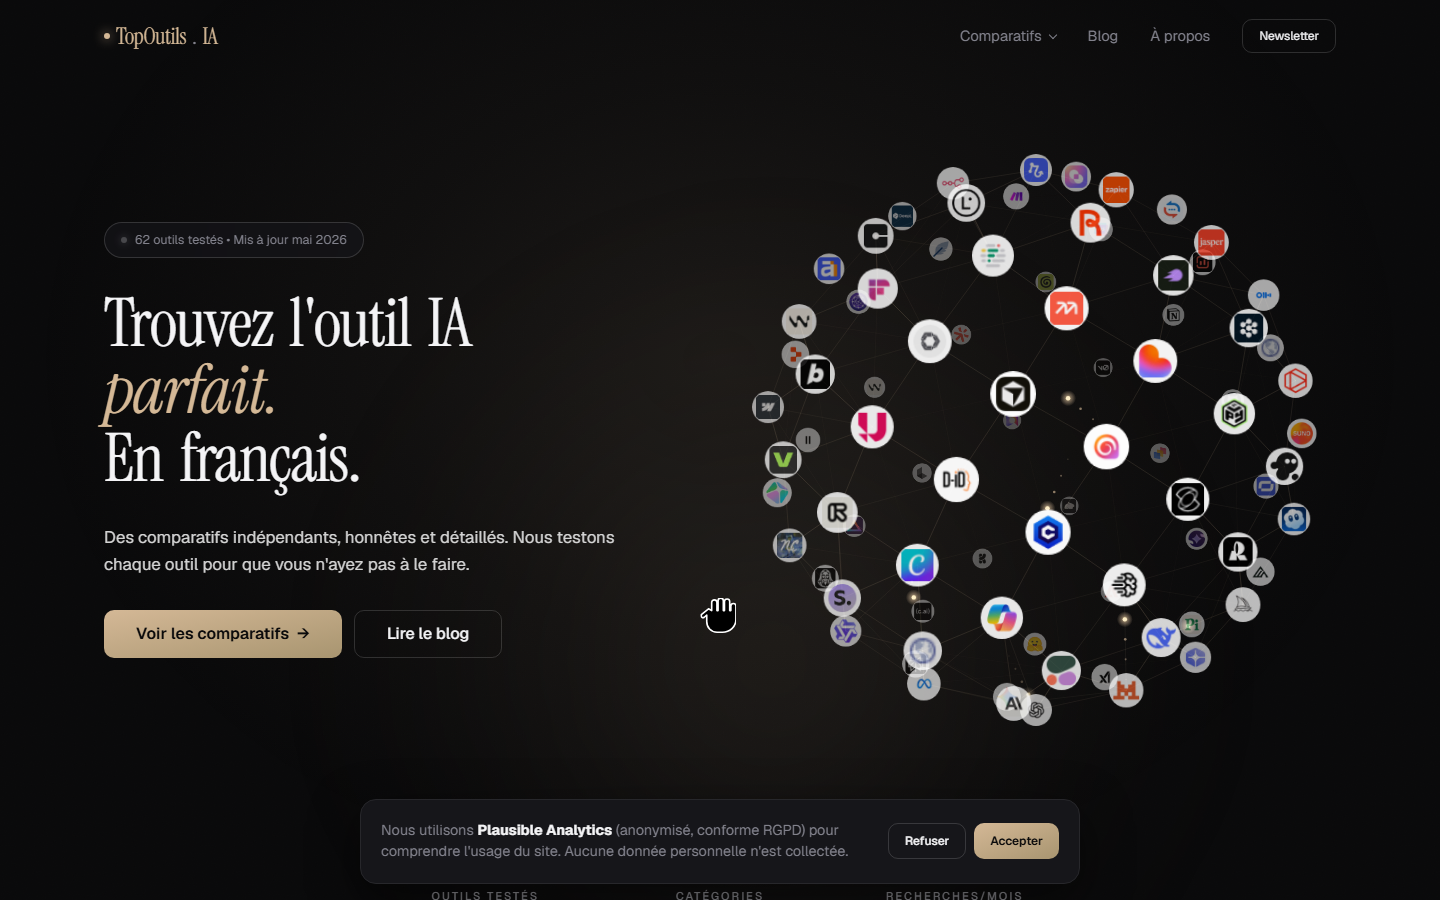
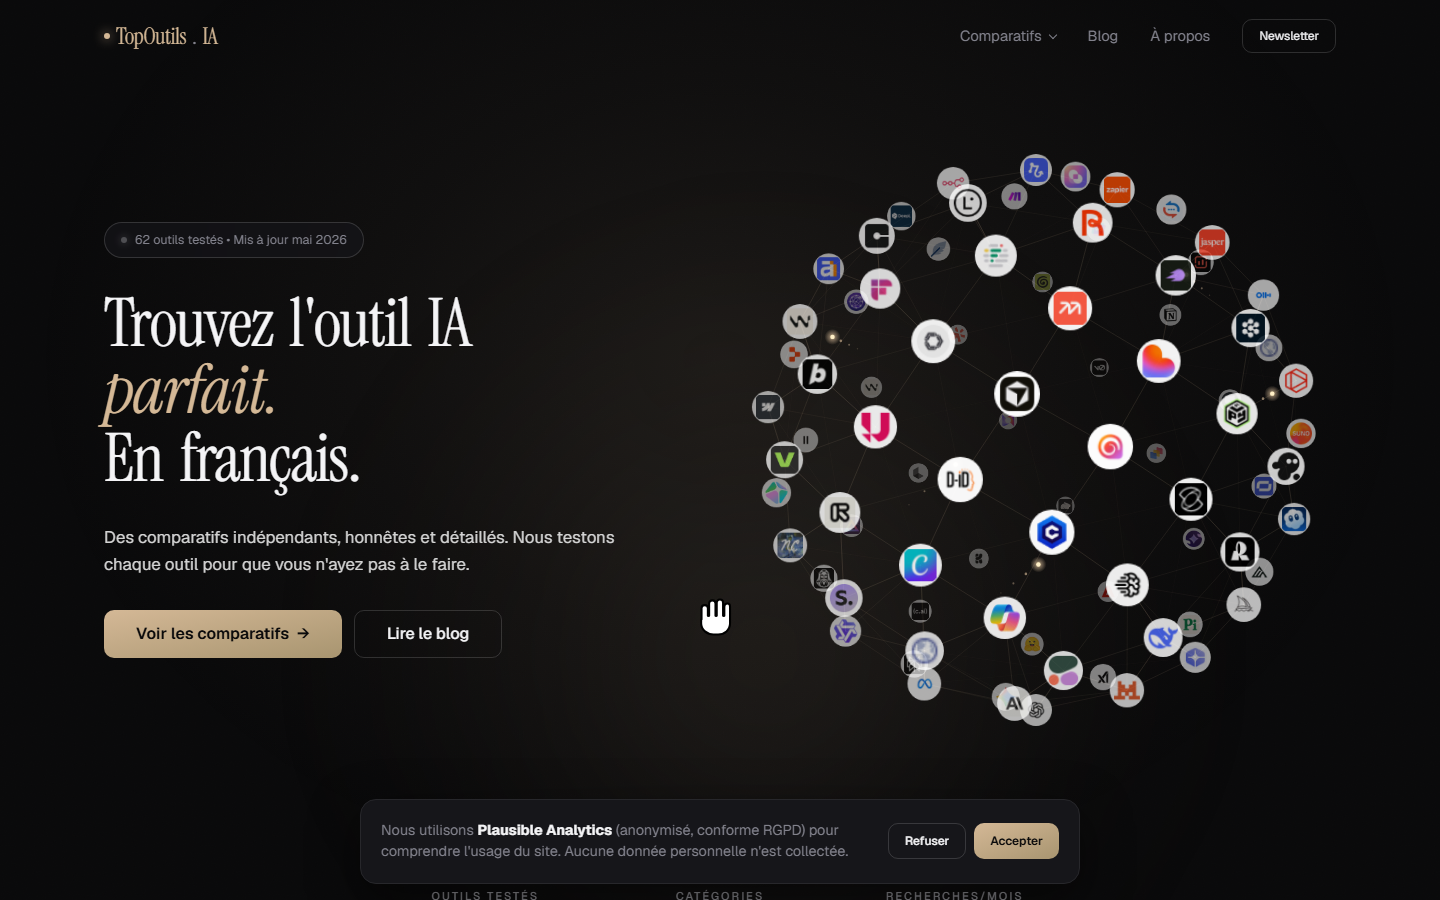
Modif style

diff --git a/screenshots/cursor-preview.html b/screenshots/cursor-preview.html
@@ -1,17 +1,35 @@
 <!DOCTYPE html>
 <html>
 <head><style>
-body { background: #16161A; padding: 60px; font-family: system-ui; color: white; }
-.row { display: flex; gap: 80px; align-items: center; margin-bottom: 40px; }
-.cell { display: flex; flex-direction: column; align-items: center; gap: 16px; }
-img { width: 96px; height: 96px; image-rendering: -webkit-optimize-contrast; background: #2a2a2a; padding: 12px; border-radius: 8px; }
-.label { font-size: 13px; color: #86868B; letter-spacing: 0.1em; text-transform: uppercase; }
+body { background: #16161A; padding: 40px; font-family: system-ui; color: white; margin: 0; }
+.row { display: flex; gap: 60px; align-items: flex-end; }
+.cell { display: flex; flex-direction: column; align-items: center; gap: 12px; }
+img { width: 120px; height: 120px; image-rendering: -webkit-optimize-contrast; background: #2a2a2a; padding: 12px; border-radius: 12px; }
+.actual { width: 48px; height: 48px; background: #2a2a2a; padding: 6px; border-radius: 6px; }
+.label { font-size: 12px; color: #86868B; letter-spacing: 0.1em; text-transform: uppercase; }
+.size { font-size: 11px; color: #555; }
 </style></head>
 <body>
+  <h2 style="font-weight:300;font-size:20px">3 curseurs custom — preview</h2>
   <div class="row">
-    <div class="cell"><img src="/cursors/cursor-default.svg" /><div class="label">Default (arrow)</div></div>
-    <div class="cell"><img src="/cursors/cursor-hand-open.svg" /><div class="label">Hand open</div></div>
-    <div class="cell"><img src="/cursors/cursor-hand-point.svg" /><div class="label">Hand point</div></div>
+    <div class="cell">
+      <img src="/cursors/cursor-open.svg" />
+      <img src="/cursors/cursor-open.svg" class="actual" />
+      <div class="label">cursor-open</div>
+      <div class="size">main ouverte</div>
+    </div>
+    <div class="cell">
+      <img src="/cursors/cursor-pointer.svg" />
+      <img src="/cursors/cursor-pointer.svg" class="actual" />
+      <div class="label">cursor-pointer</div>
+      <div class="size">main qui pointe</div>
+    </div>
+    <div class="cell">
+      <img src="/cursors/cursor-arrow.svg" />
+      <img src="/cursors/cursor-arrow.svg" class="actual" />
+      <div class="label">cursor-arrow</div>
+      <div class="size">flèche</div>
+    </div>
   </div>
 </body>
 </html>

diff --git a/src/components/CustomCursor.tsx b/src/components/CustomCursor.tsx
@@ -8,22 +8,24 @@ const CLICKABLE_SELECTOR =
   'a[href], button, [role="button"], label, input[type="checkbox"], input[type="radio"], select, summary, .btn, [data-cursor="point"]';
 
 const SRC: Record<CursorType, string> = {
-  default: '/cursors/cursor-default.svg',
-  open: '/cursors/cursor-hand-open.svg',
-  point: '/cursors/cursor-hand-point.svg',
+  default: '/cursors/cursor-arrow.svg',
+  open: '/cursors/cursor-open.svg',
+  point: '/cursors/cursor-pointer.svg',
 };
 
-// Hotspot offsets (in image px) so the visual "tip" sits exactly on the pointer.
+// Hotspot offsets (in displayed px) so the visual "action point" sits exactly
+// on the OS pointer location. Values are scaled from the 48x48 viewBox to
+// the displayed size below.
 const HOTSPOT: Record<CursorType, { x: number; y: number }> = {
-  default: { x: 3, y: 2 },   // arrow tip
-  open: { x: 20, y: 2 },     // middle finger top
-  point: { x: 13, y: 1 },    // index fingertip
+  default: { x: 4, y: 3 },     // arrow tip (viewBox 6,4 → 30/48 scale)
+  open: { x: 24, y: 2 },       // middle finger tip (viewBox 30,2 → 38/48 scale)
+  point: { x: 14, y: 1 },      // index fingertip (viewBox 19.7,1 → 34/48 scale)
 };
 
 const SIZE: Record<CursorType, { w: number; h: number }> = {
-  default: { w: 28, h: 28 },
-  open: { w: 36, h: 36 },
-  point: { w: 30, h: 34 },
+  default: { w: 30, h: 30 },
+  open: { w: 38, h: 38 },
+  point: { w: 34, h: 38 },
 };
 
 export function CustomCursor() {
